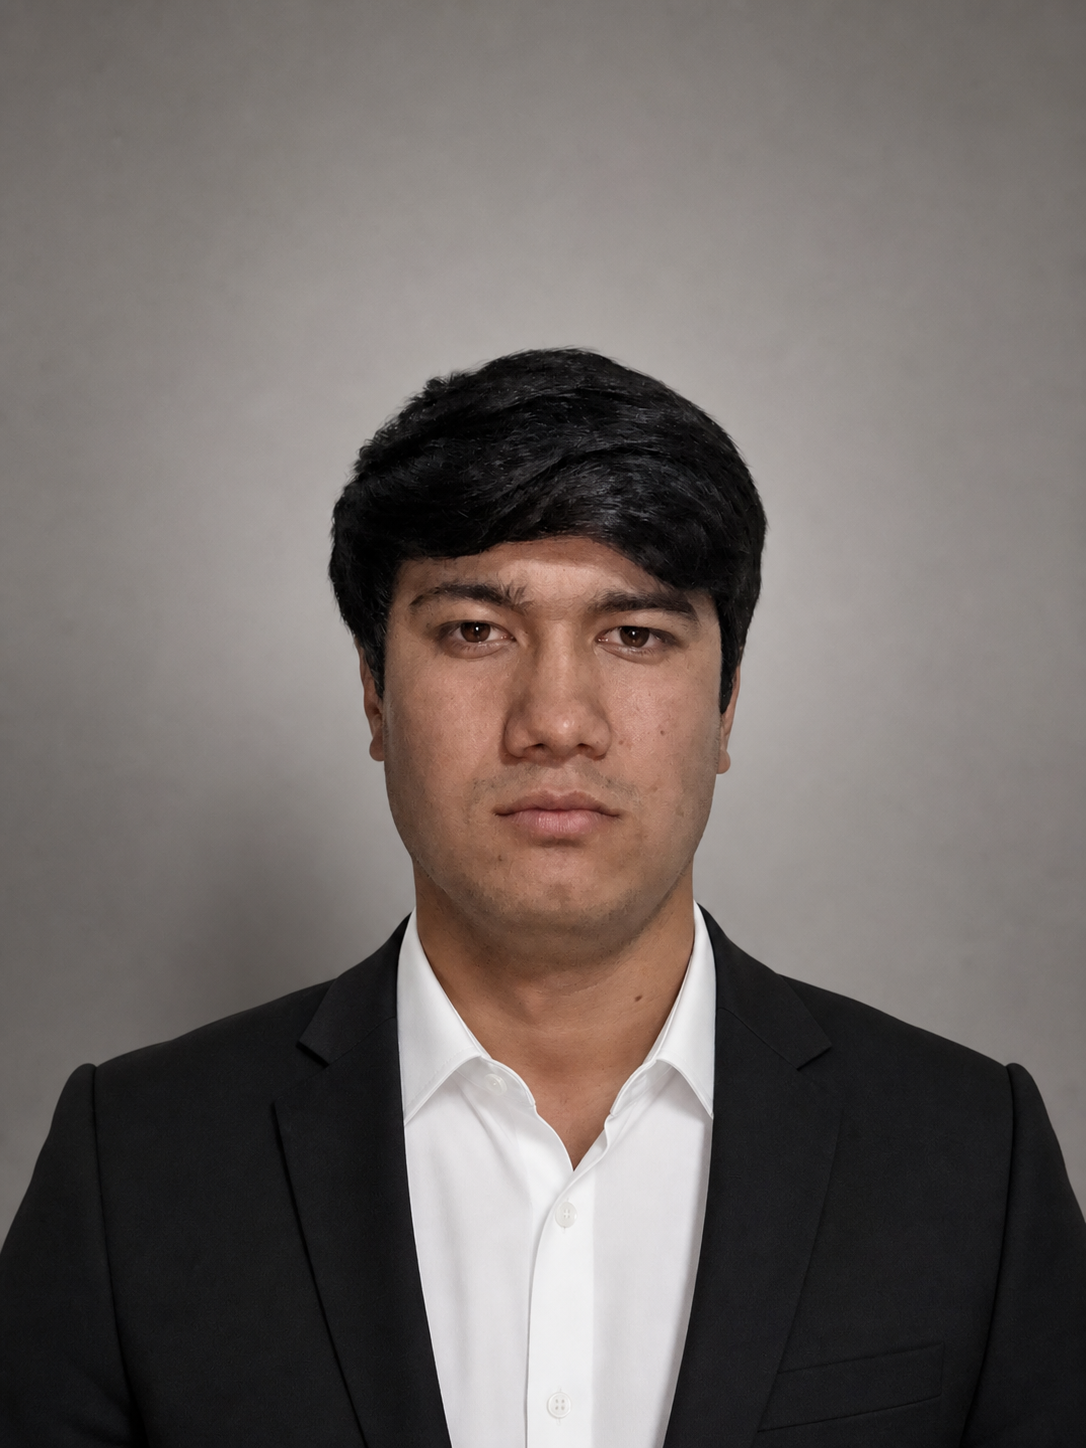
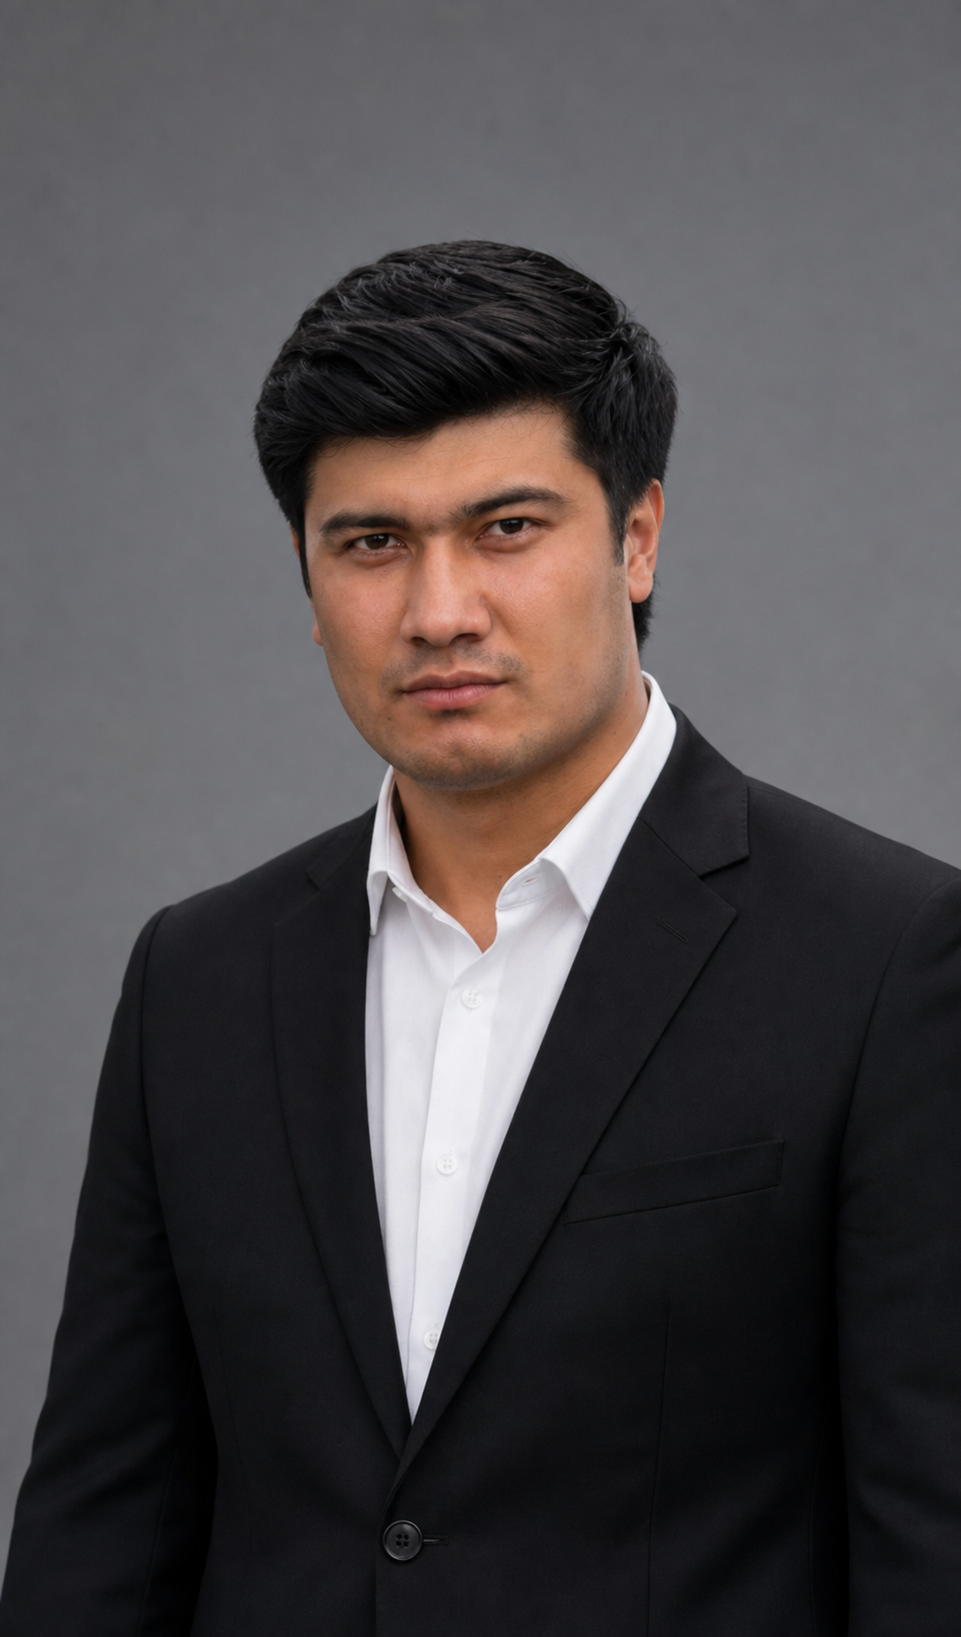
Update Qurbonov professional portrait

diff --git a/about.html b/about.html
@@ -163,7 +163,7 @@
 
             <article class="team-card" data-reveal>
               <div class="team-card__portrait">
-                <img src="assets/team/qurbonov-alijon.png" alt="Portrait of Qurbonov Alijon, Logistics Specialist at TOJDORON" width="1086" height="1448" loading="lazy" />
+                <img src="assets/team/qurbonov-alijon.png?v=portrait-v3" alt="Portrait of Qurbonov Alijon, Logistics Specialist at TOJDORON" width="961" height="1637" loading="lazy" />
               </div>
               <div class="team-card__body">
                 <h3 data-translation-key="Qurbonov Alijon">Qurbonov Alijon</h3>
